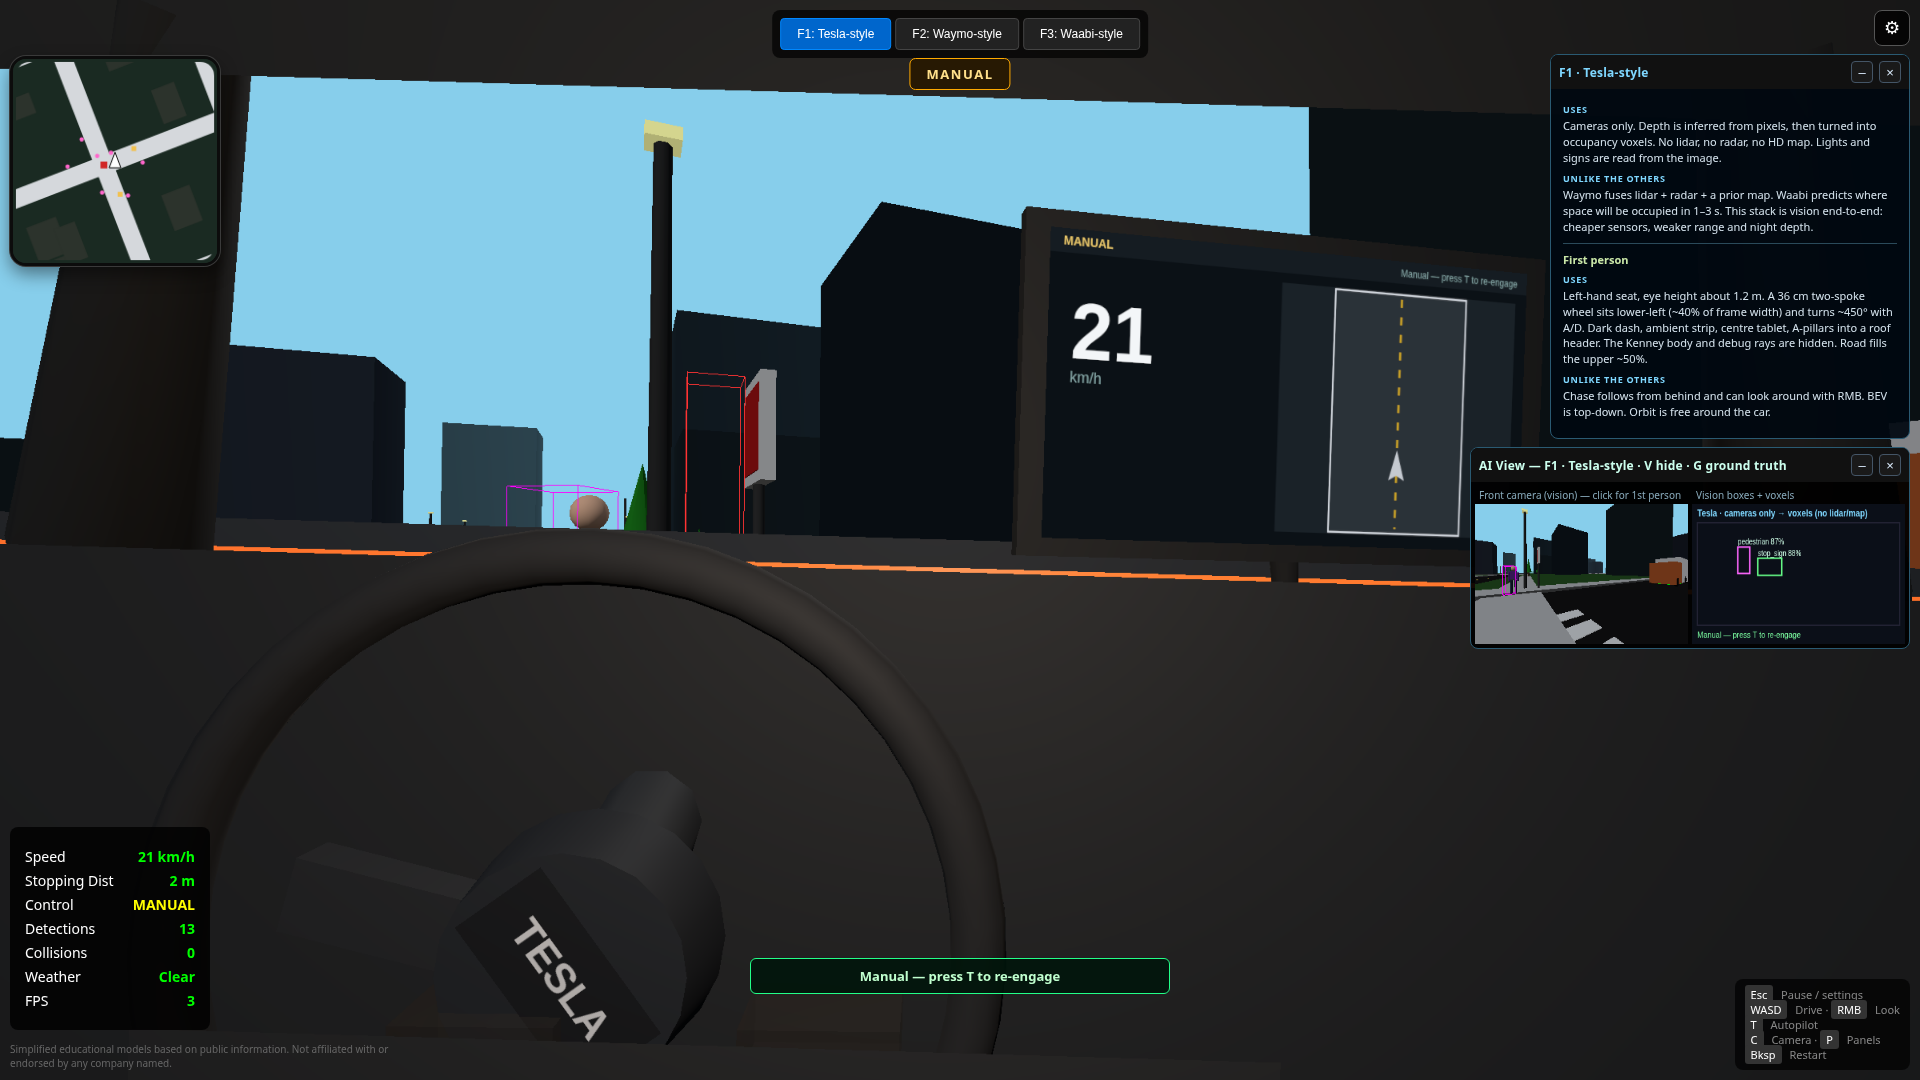
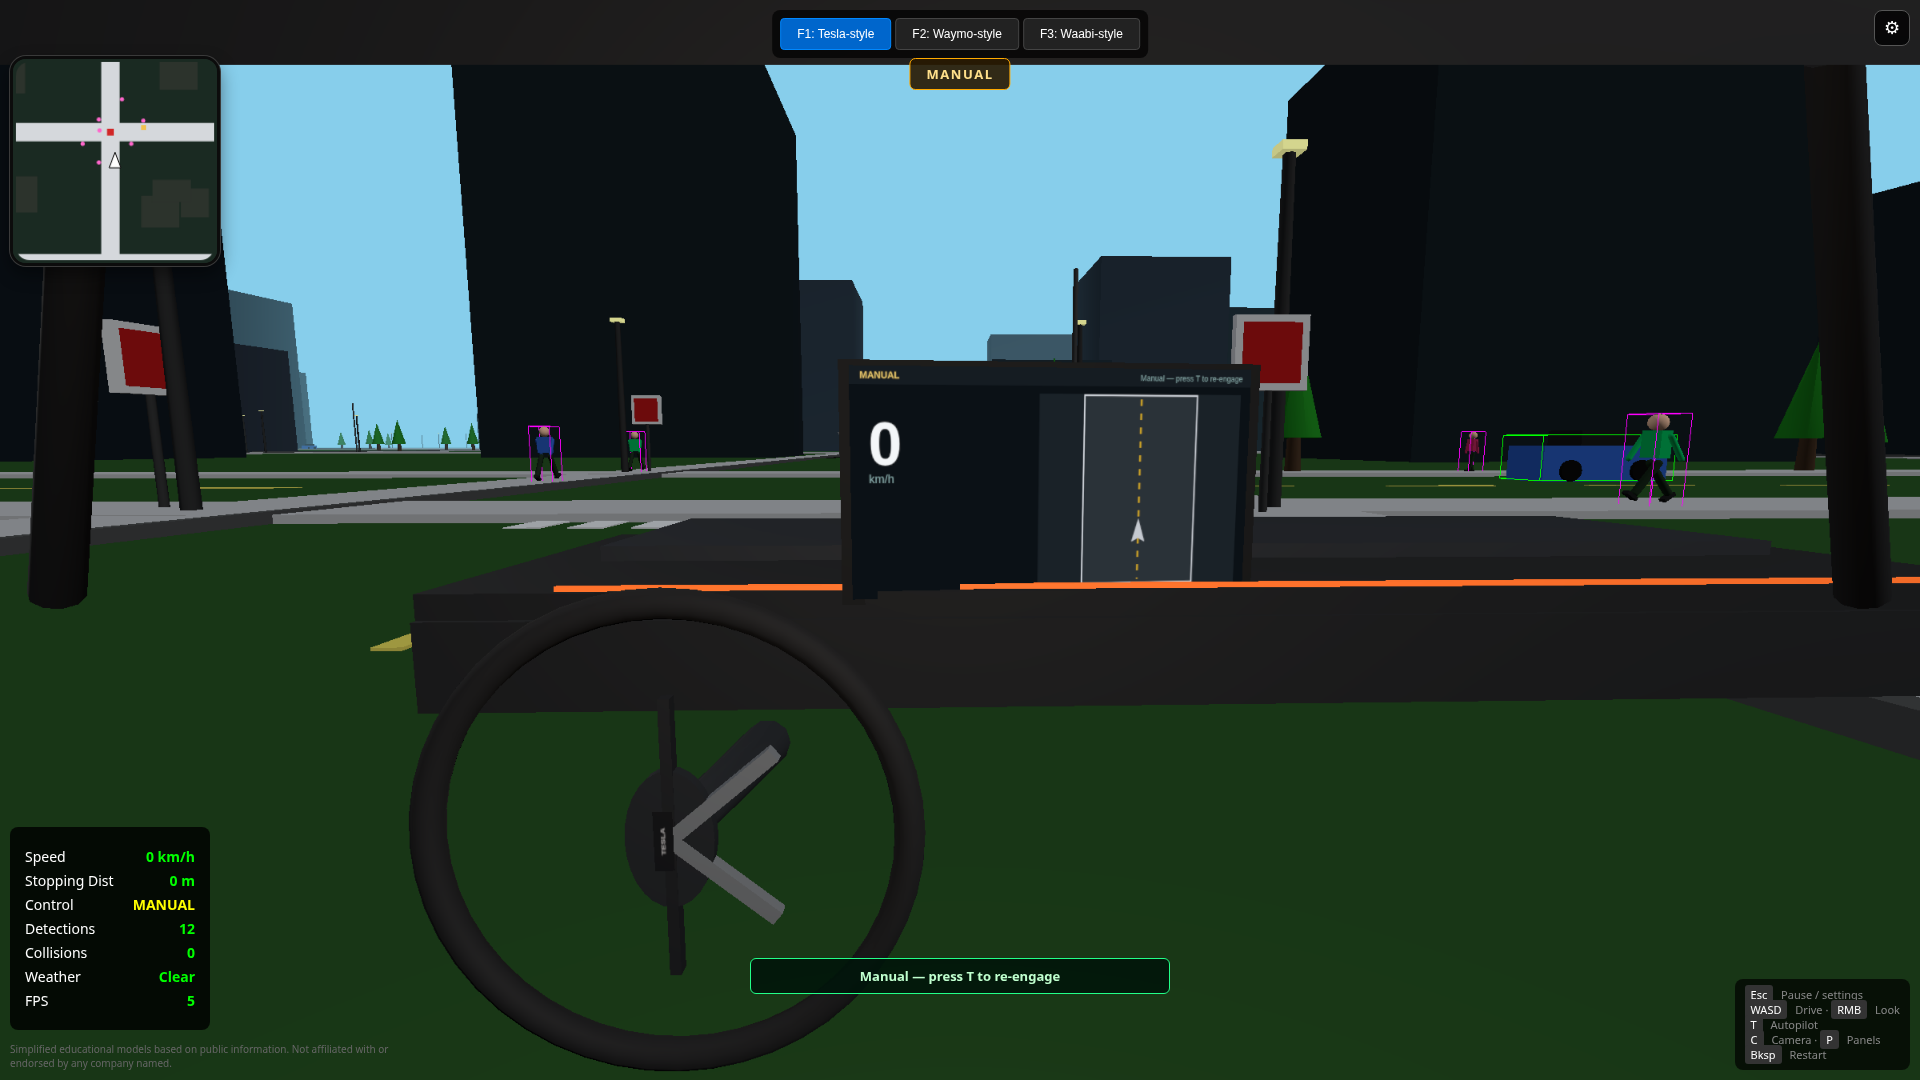
docs: recapture Tesla-framed first-person shots and compares
Live hood stills after the 0.6 m wheel / 7° pitch / thin-dash retune,
plus side-by-side images against the Model 3/Y reference photo.

diff --git a/docs/screenshots/README.md b/docs/screenshots/README.md
@@ -49,6 +49,9 @@ Full right lock while driving.
 ### fp_intersection_50.png
 First person at about 50 km/h at an intersection.
 
+### compare_fp_straight.png / compare_fp_steer_left.png / compare_fp_steer_right.png / compare_fp_intersection_50.png
+Side-by-side of the Tesla Model 3/Y reference (left) and the live hood shot (right).
+
 ### hud_panels_open.png
 Right-side column with explainer, AI View, and info all open — no overlap.
 
